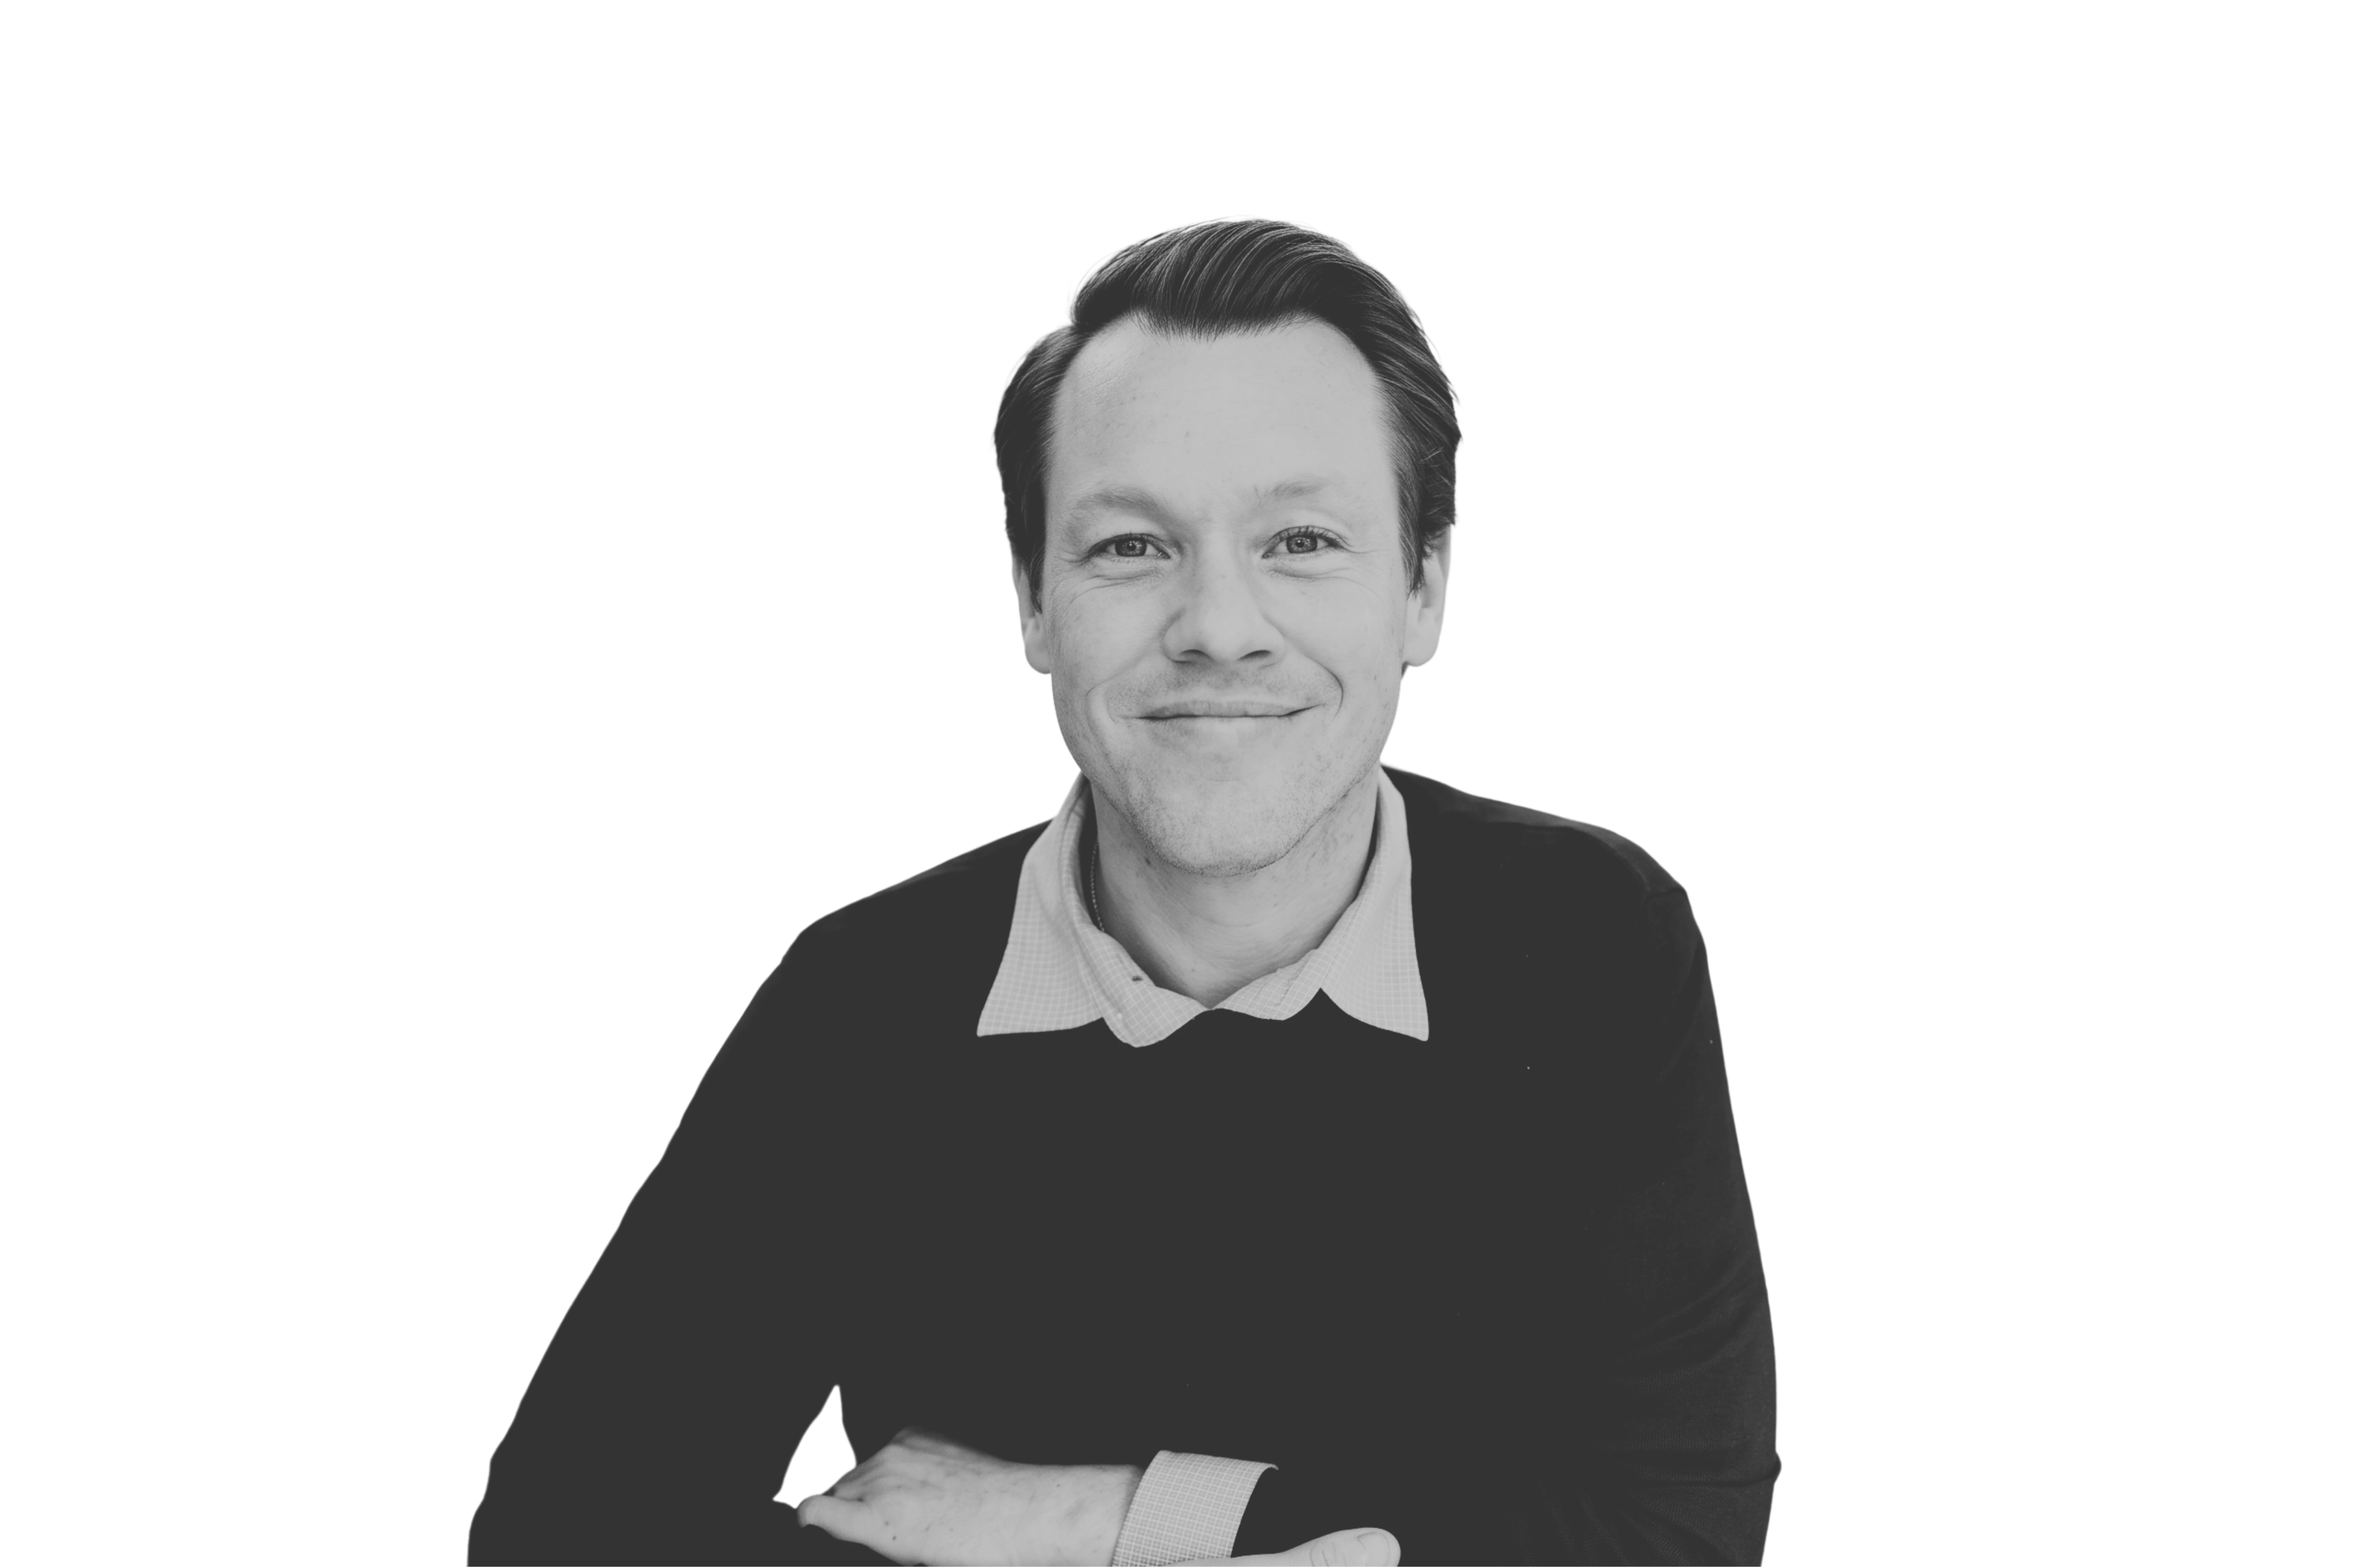
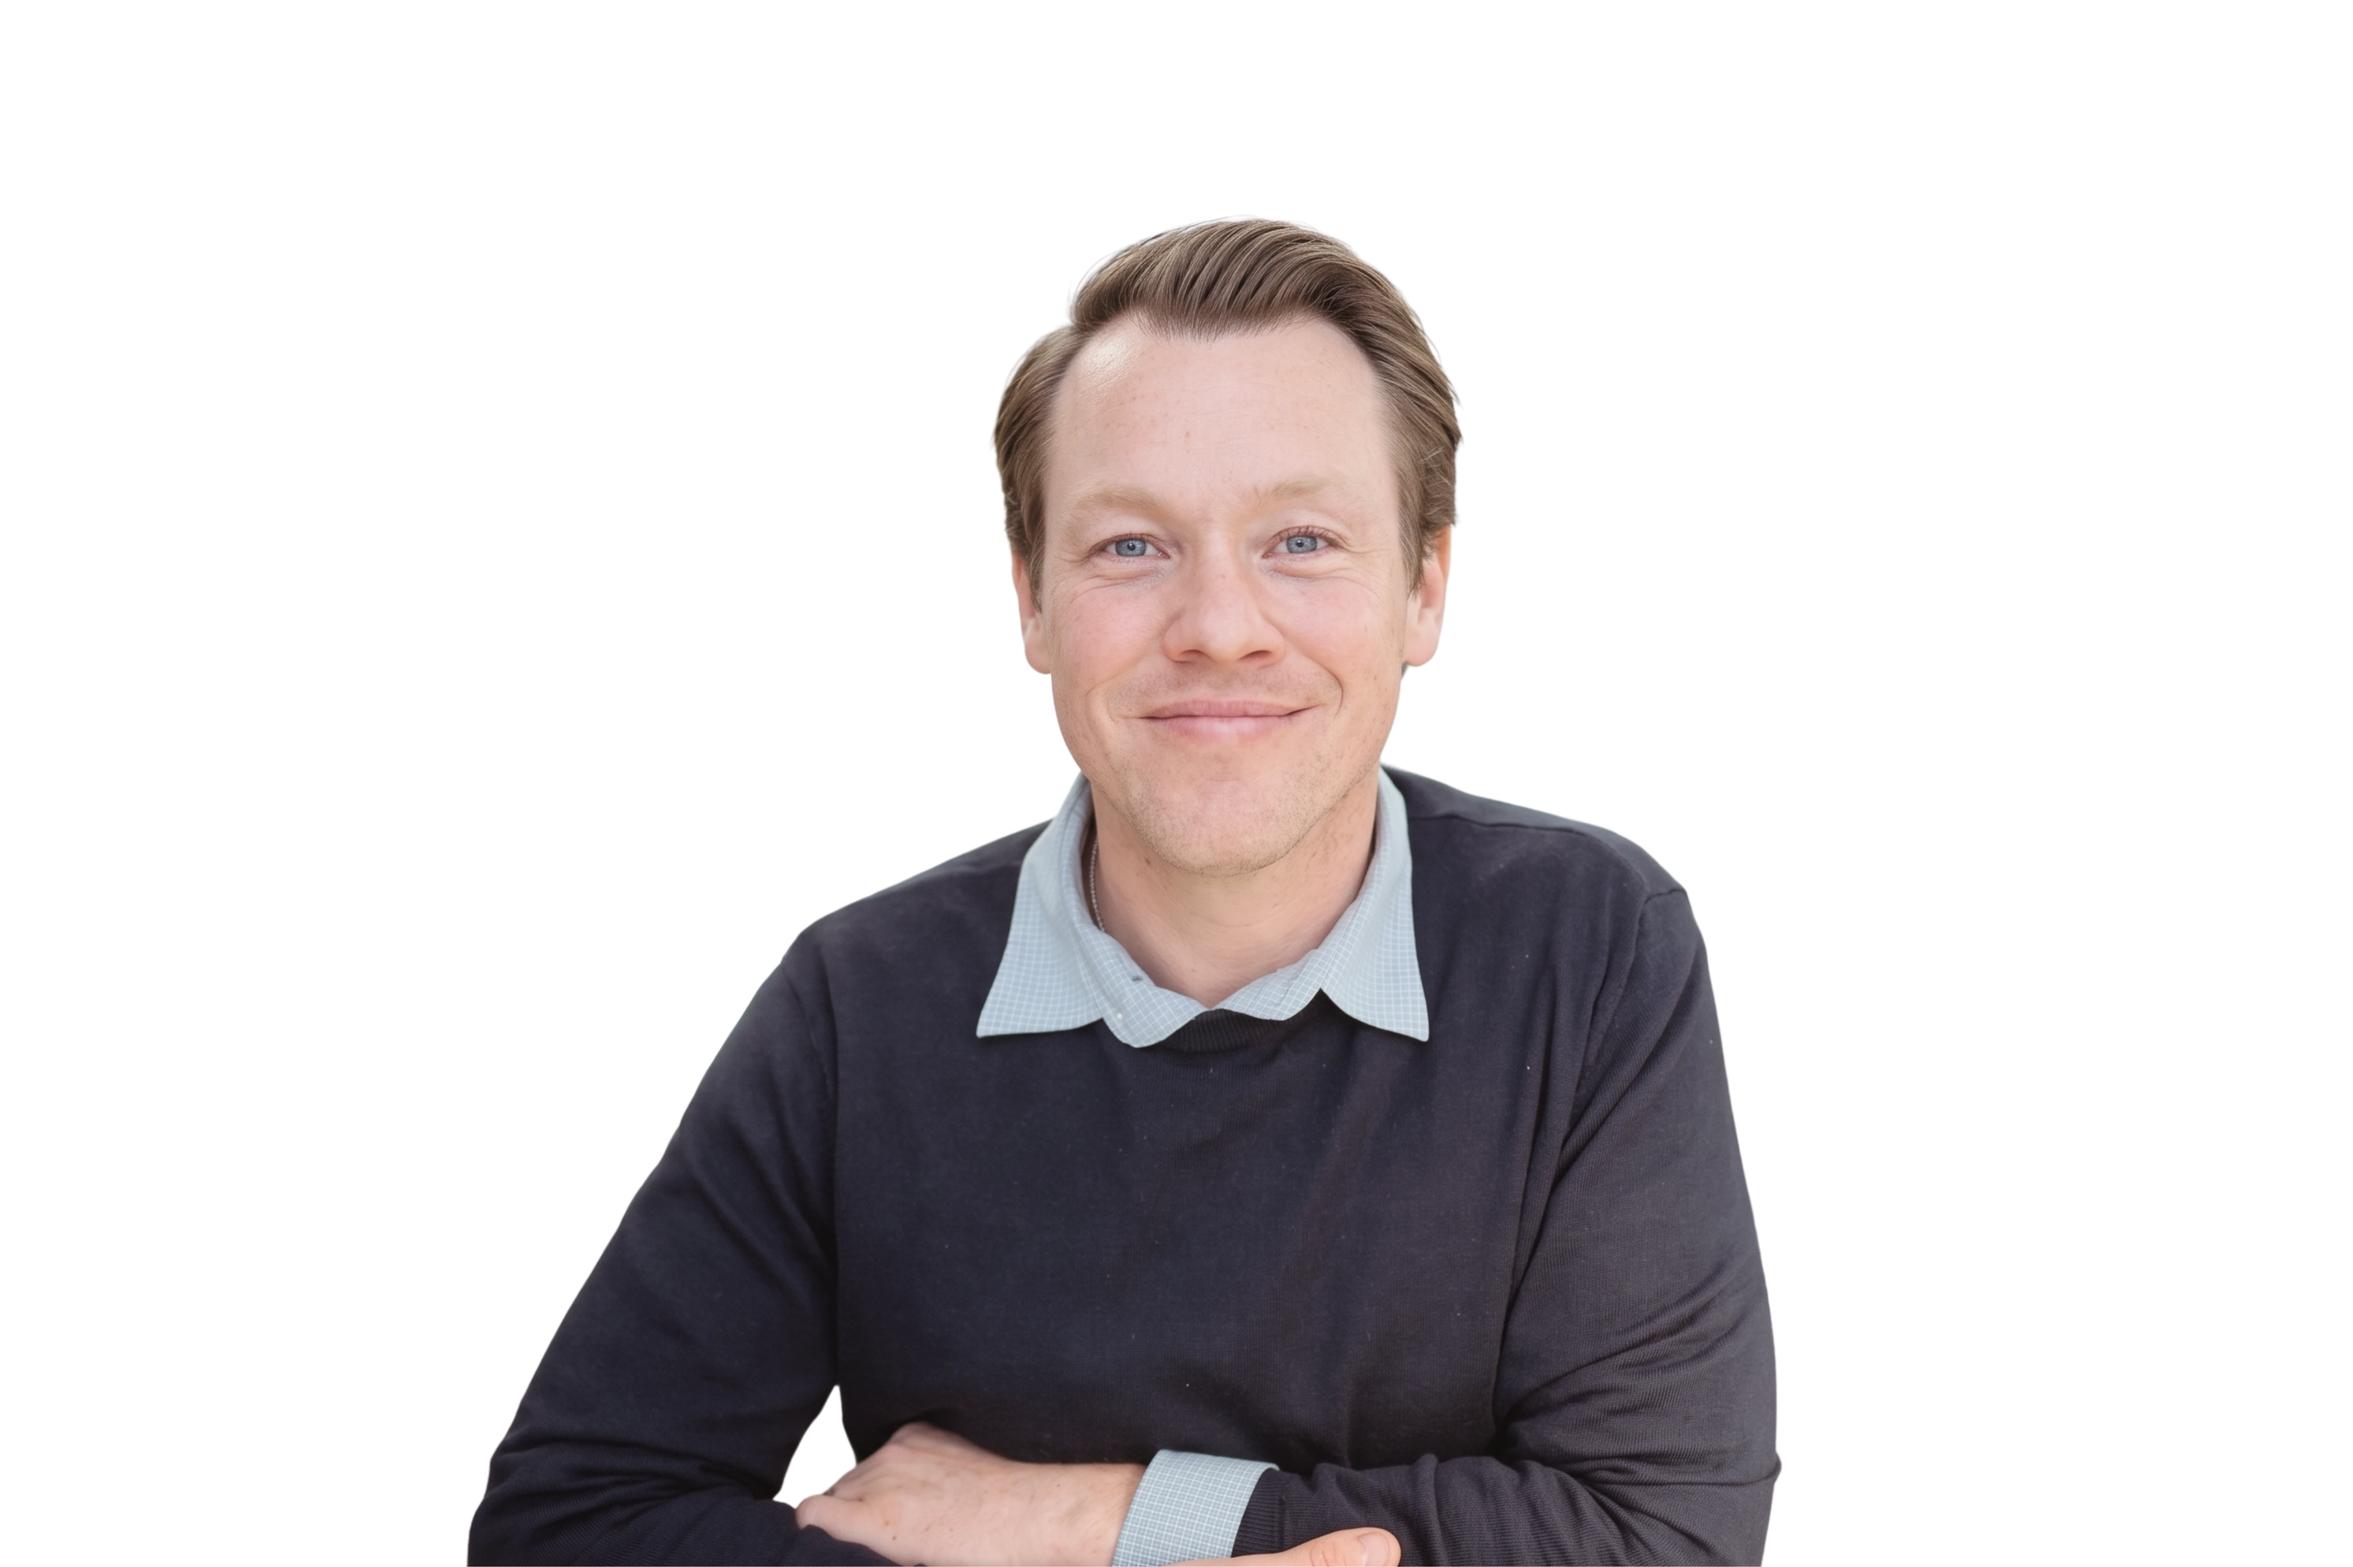
feat: enlarge About page founder photo on desktop, swap source
Photo column: w-80 mobile, lg:w-[600px] (up from 500), xl:w-[720px].
Container widened to xl:max-w-7xl so the text column stays readable
alongside the larger photo.

Headline capped at md:text-6xl lg:text-5xl. The character-level
inline-block stagger means overflow wraps mid-word at character
boundaries (the original "Anti-Agen / cy" bug), so the headline
size has to track the available text-column width: post-enlargement
the lg column is ~424px and the xl column is ~432px, both of which
fit text-5xl ~385px cleanly.

Source webp regenerated from "Joshua Profile Headshot.png" (RGBA,
mean alpha 0.280) via cwebp -q 90 -alpha_q 100. 640 KB on disk,
channels srgba 4.0.

Changed region(s): [[0.1875, 0.1248, 0.7812, 1.0]]

diff --git a/app/(marketing)/about/AboutContent.tsx b/app/(marketing)/about/AboutContent.tsx
@@ -255,10 +255,10 @@ export default function AboutContent() {
         )}
         <GradientBlob className="-top-40 -right-40" />
 
-        <div className="relative z-[2] mx-auto flex max-w-6xl flex-col items-center gap-12 px-6 lg:flex-row lg:gap-16 lg:px-8">
+        <div className="relative z-[2] mx-auto flex max-w-6xl flex-col items-center gap-12 px-6 lg:flex-row lg:gap-16 lg:px-8 xl:max-w-7xl">
           {/* Photo column with parallax */}
           <ParallaxPhoto reduce={prefersReducedMotion}>
-            <div className="relative w-80 lg:w-[500px]">
+            <div className="relative w-80 lg:w-[600px] xl:w-[720px]">
               {/* Atmospheric blue glow behind photo */}
               <motion.div
                 aria-hidden="true"
@@ -276,7 +276,7 @@ export default function AboutContent() {
               />
               {/* Clip-path reveal applied to the photo container. The
                   source webp carries its own alpha (RGBA, color_type 6),
-                  so no maskImage is needed — adding one would trim the
+                  so no maskImage is needed; adding one would trim the
                   silhouette at the mask's edges. */}
               <motion.div
                 initial={
@@ -299,7 +299,7 @@ export default function AboutContent() {
                   src="/images/joshua-jones.webp"
                   alt="Joshua Jones, Founder & Principal Architect"
                   fill
-                  sizes="(max-width: 1024px) 320px, 500px"
+                  sizes="(max-width: 1024px) 320px, (max-width: 1280px) 600px, 720px"
                   className="object-cover"
                   quality={95}
                   priority
@@ -318,17 +318,17 @@ export default function AboutContent() {
             >
               {ABOUT_CONTENT.badge}
             </motion.span>
-            {/* Capped at md:text-6xl. The text column in this side-by-side
-                layout is ~524px at lg (max-w-6xl - lg:px-8 - lg:w-[500px]
-                photo - lg:gap-16 = 524px); "The Anti-Agency" at text-7xl
-                (~620-640px) overflows that, and because each character is
-                its own inline-block (needed for the y-translate stagger),
-                the browser breaks at character boundaries when it overflows,
-                producing the visible "Anti-Agen / cy" mid-word wrap. At
-                text-6xl with tracking-tight the headline measures ~510px
-                and fits cleanly. A stacked headline-above-photo layout
-                would let larger sizes breathe; that's a separate change. */}
-            <h1 className="mt-6 font-display text-4xl font-bold leading-tight tracking-tight text-white sm:text-5xl md:text-6xl">
+            {/* Sized to fit alongside the enlarged photo column without
+                breaking the headline mid-word. Each character is its own
+                inline-block (for the y-translate stagger), so when the
+                text overflows its column the browser wraps at character
+                boundaries; that is how "Anti-Agen / cy" used to appear.
+                Column math (post-photo enlargement):
+                  - md and below: stacked, headline gets full width.
+                  - lg (max-w-6xl, photo 600): text col ~424px, drop to text-5xl (~385px).
+                  - xl (max-w-7xl, photo 720): text col ~432px, stay at text-5xl.
+                If the photo ever shrinks back, lg+ can return to text-6xl. */}
+            <h1 className="mt-6 font-display text-4xl font-bold leading-tight tracking-tight text-white sm:text-5xl md:text-6xl lg:text-5xl">
               <span className="sr-only">
                 {ABOUT_CONTENT.headline} {ABOUT_CONTENT.headlineAccent}
               </span>

diff --git a/docs/ai/current-state.md b/docs/ai/current-state.md
@@ -8,7 +8,7 @@ Last updated: April 25, 2026
 - ~24 unique URLs live (18 page.tsx files plus dynamic [slug] expansions), deployed on Vercel via GitHub `dbj-technologies-VERSION-2` (origin main)
 - Lighthouse baseline: Performance 99-100, Accessibility 100, Best Practices 100, SEO 100
 - Homepage: HeroCinema phase-based animation (blueprint -> build -> reveal -> complete), "Architect The Impossible." headline with period. Initial-load gap (between CSS-paint and HeroCinema's ssr:false chunk arriving) covered by a static dark fallback div rendered in app/layout.tsx (id="hero-cinema-fallback", inline-styled position:fixed z:100 #06060a, only emitted on /) which HeroCinema removes from the DOM in its mount useEffect so its own animated overlay takes the slot seamlessly.
-- About page: dark hero section, split layout with joshua-jones.webp (true alpha-channel transparent PNG sourced through cwebp -q 90 -alpha_q 100; subject silhouette floats directly over the dark page bg, no maskImage applied — the previous radial-gradient ellipse mask was removed because it was trimming the silhouette mid-torso once the PNG had genuine alpha), clip-path reveal animation, floating geometric accents, character-level headline animation, story sections ("Why I Work This Way", "What You Actually Get", "How I Build", "Who This Is For"), personal sign-off, gradient divider, values cards with hover glow
+- About page: dark hero section, split layout with joshua-jones.webp (true alpha-channel transparent PNG; new "Joshua Profile Headshot" source converted via cwebp -q 90 -alpha_q 100; 640 KB, 6400x4263, RGBA preserved). Photo column enlarged for desktop: w-80 mobile, lg:w-[600px], xl:w-[720px], with the hero container widened to xl:max-w-7xl so the text column doesn't get crushed. Headline capped at md:text-6xl lg:text-5xl to prevent character-level mid-word wrap once the photo column grows. No maskImage; subject silhouette floats directly over the dark page bg. Clip-path reveal animation, floating geometric accents, character-level headline animation, story sections ("Why I Work This Way", "What You Actually Get", "How I Build", "Who This Is For"), personal sign-off, gradient divider, values cards with hover glow.
 - Work page: 3 case studies (Star Auto Service, Pathlight, Soil Depot) with real screenshots, comprehensive detail pages, metrics rows, tech stacks, "View Case Study" + "Live Site" links
 - Services: 6 dedicated service pages (frontend-architecture, backend-systems, cloud-infrastructure, interface-engineering, ecommerce-platforms, web-performance)
 - Pricing: Starter $4,500, Professional $9,500, Enterprise custom (price: null, scoped during paid discovery). Maintenance $299/month. Hourly consulting $175/hour.
